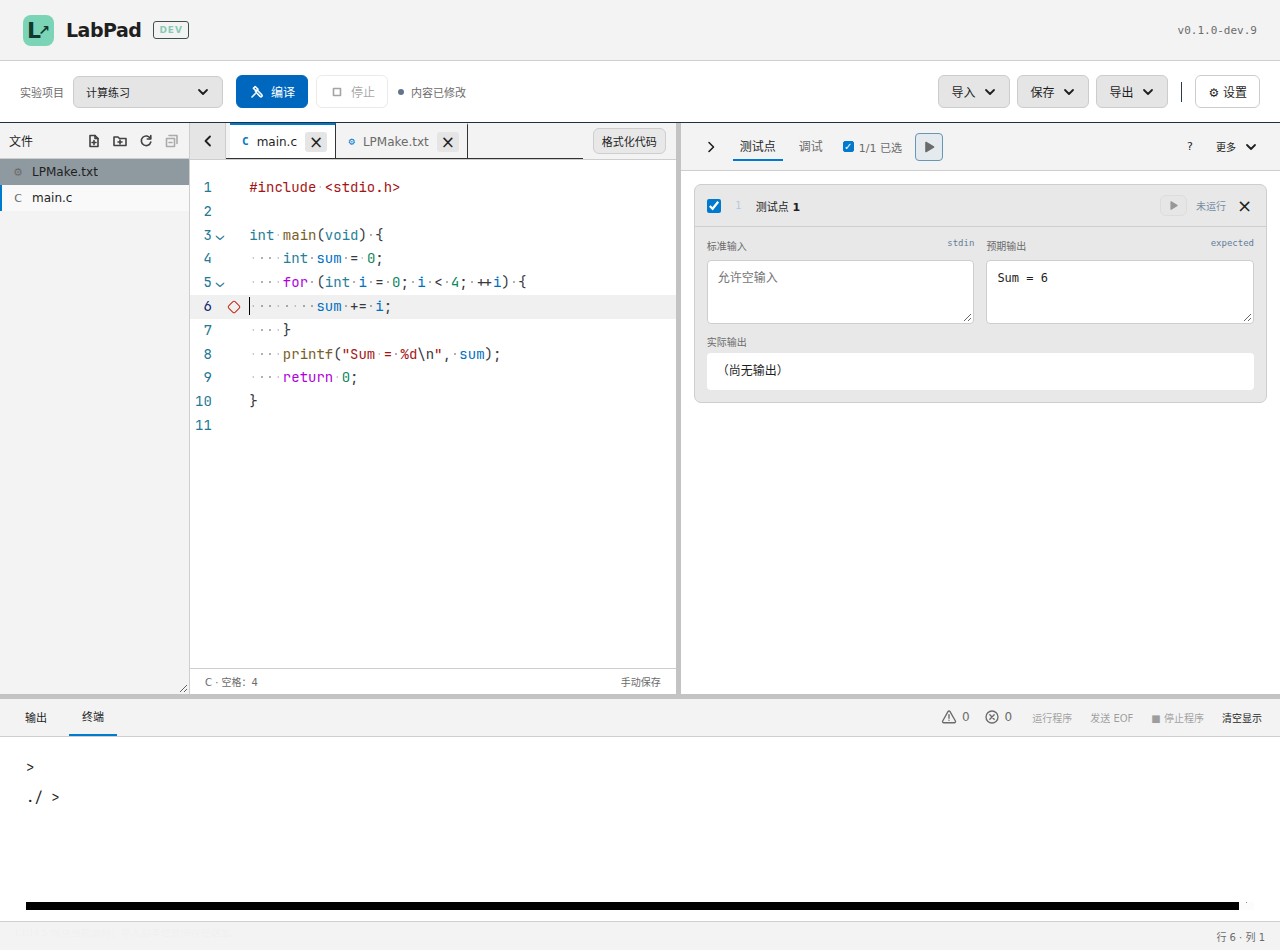
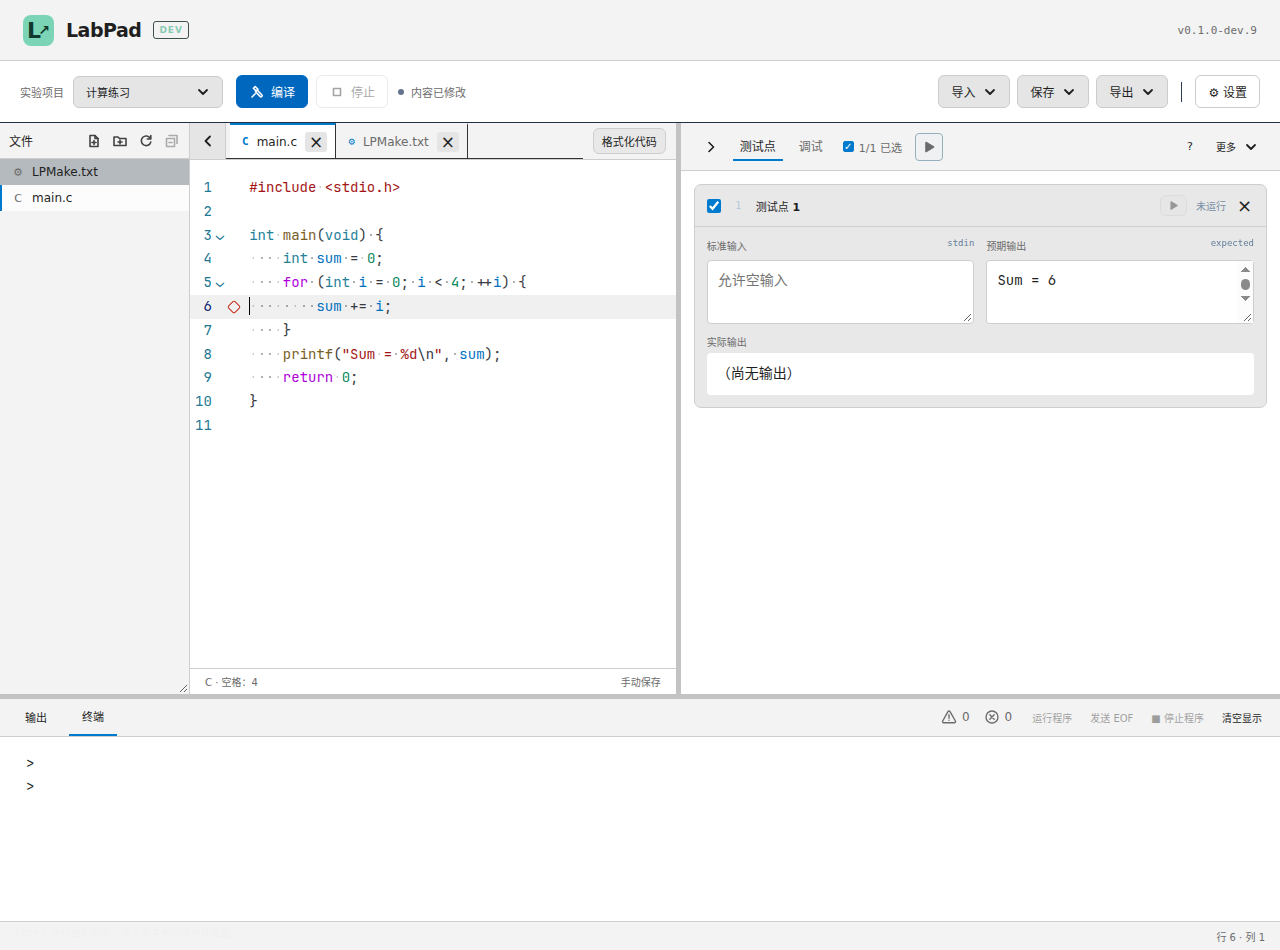
docs: describe terminal typography and source recovery checks

diff --git a/doc/0.1.0-dev.9/ta-guide.md b/doc/0.1.0-dev.9/ta-guide.md
@@ -4,7 +4,7 @@
 
 撰写日期：2026-11-01
 
-更新日期：2026-11-05
+更新日期：2026-11-08
 
 ## 1. 实验下发与收件
 向同学下发 LabPad 程序包、课程项目 JSON 和实验指导书。课程 JSON 单独分发，GitHub Release 只附程序包及校验文件。
@@ -36,7 +36,7 @@ v1 保持兼容；v2 可以明确写 mode: problem-set。UTF-8 文件示例：
 
 labId 是实验项目名，problemId 是题号。列表按 problems 顺序显示。language 可为 c 或 cpp；source 可为完整字符串或逐行数组。title 缺省为题号，language 缺省为 c，源码缺省为内置模板，默认时限 1000 ms、输出上限 65536 字节、比较方式 wcmp、测试点为空。
 
-每题模板应保留需要学生完成的部分。测试输入不等于终端键盘回显，预期输出只写程序应打印的内容。项目名、题号和测试点编号必须唯一。
+每题模板应保留需要学生完成的部分。测试输入不等于终端键盘回显，预期输出只写程序应打印的内容。编辑器、终端、输出和测试点输入输出共用“编辑与保存”中的中英文字体、字号设置。项目名、题号和测试点编号必须唯一。
 
 公开课程示例：[实验1](../../examples/lab-1.project.json)、[实验2](../../examples/lab-2.project.json)、[实验3](../../examples/lab-3.project.json)。实验1个性化参数使用虚构演示值；学生修改参数后需调整预期输出。实验3猜数字保留手动检查，避免用固定输出改变随机交互题意。
 

diff --git a/doc/0.1.0-dev.9/lpmake-guide.md b/doc/0.1.0-dev.9/lpmake-guide.md
@@ -479,6 +479,8 @@ lpmake clean
 lpmake c
 ~~~
 
+终端根目录提示符为 >，进入子目录后显示相对路径，例如 src/tests>。
+
 只读取**当前目录的 LPMake.txt**。cd 到子目录后，若那里没有配置，提示“当前目录未找到 LPMake.txt”；不会使用父级配置。嵌套目录各自有配置时，分别构建，不自动修改父配置的源码范围。
 
 build 读取已保存文件，将程序、对象与辅助文件写到当前配置目录的 build/。已有用户 build/ 无归属清单时需先移走或重命名。run 使用该配置当前有效的程序，修改源码、头文件、资源或配置后先重新 build。clean 只删除该配置清单中的产物，保留用户文件。
